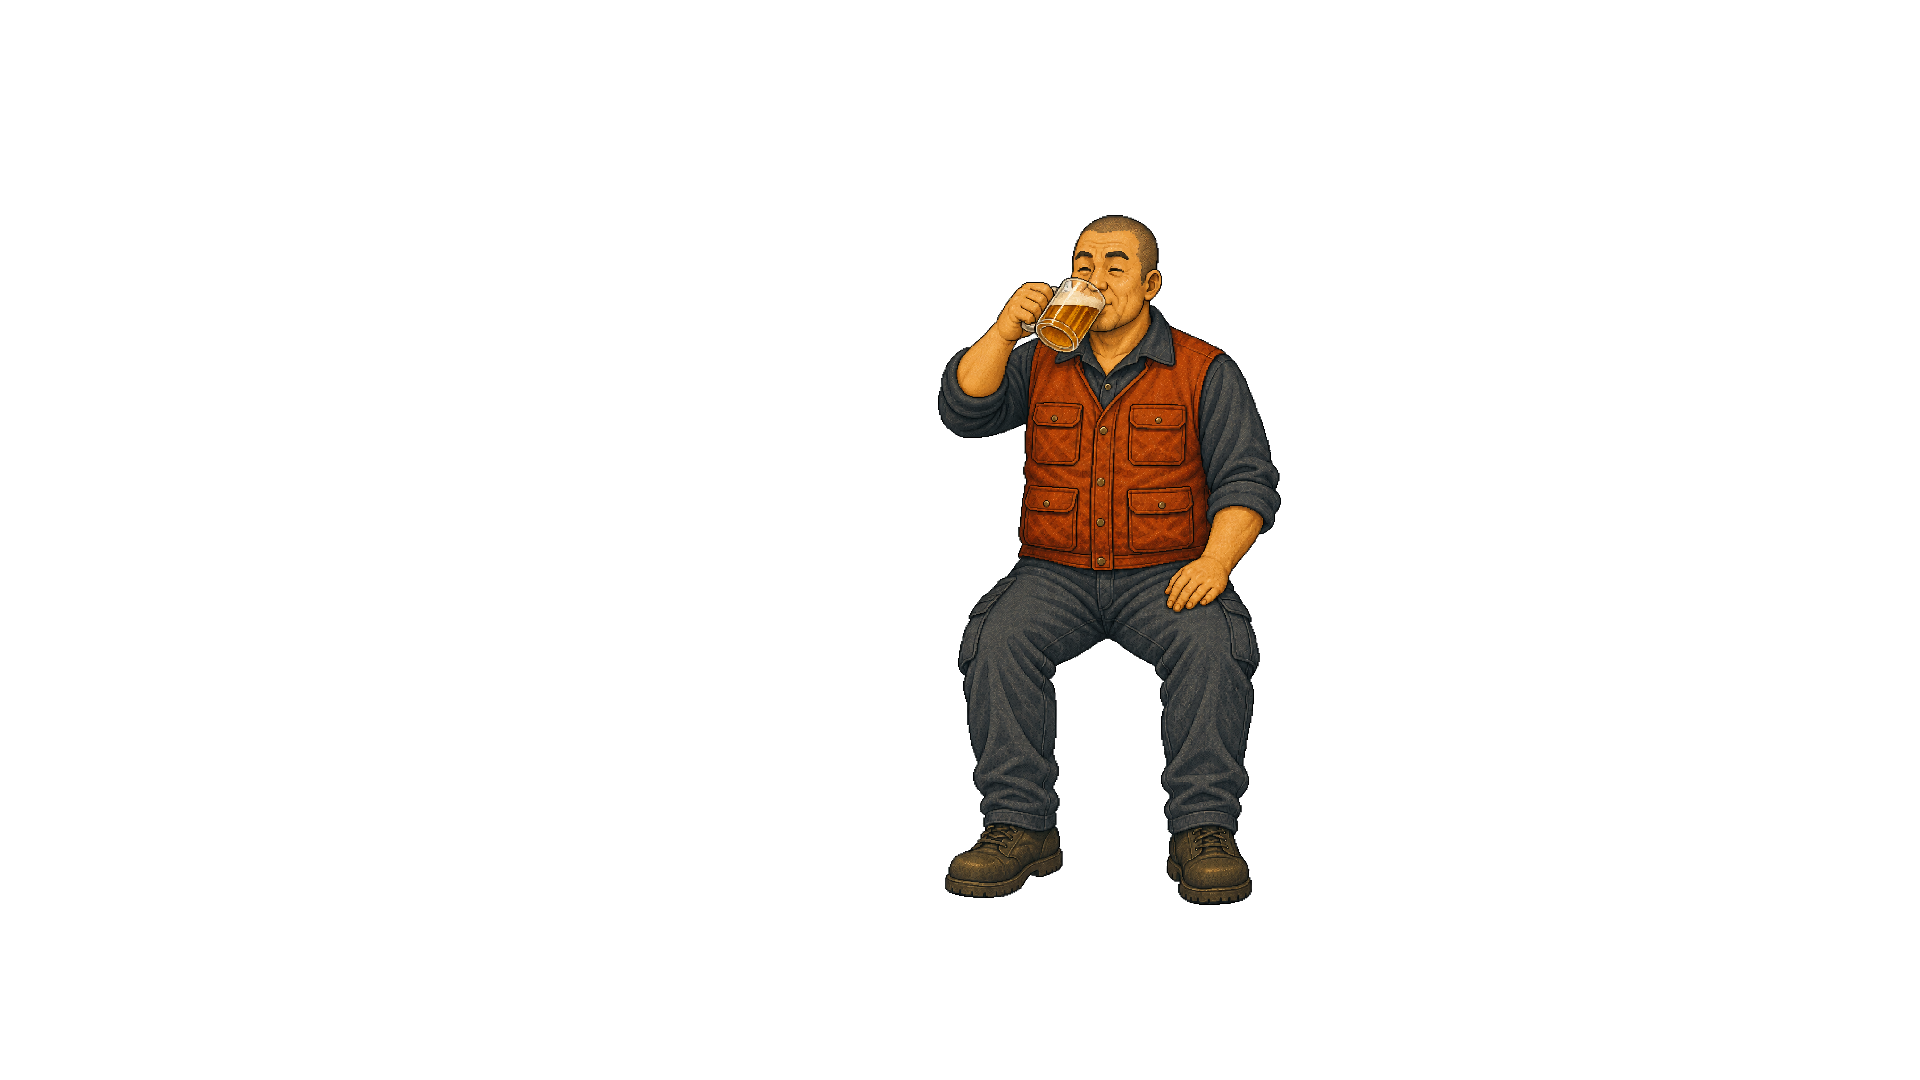
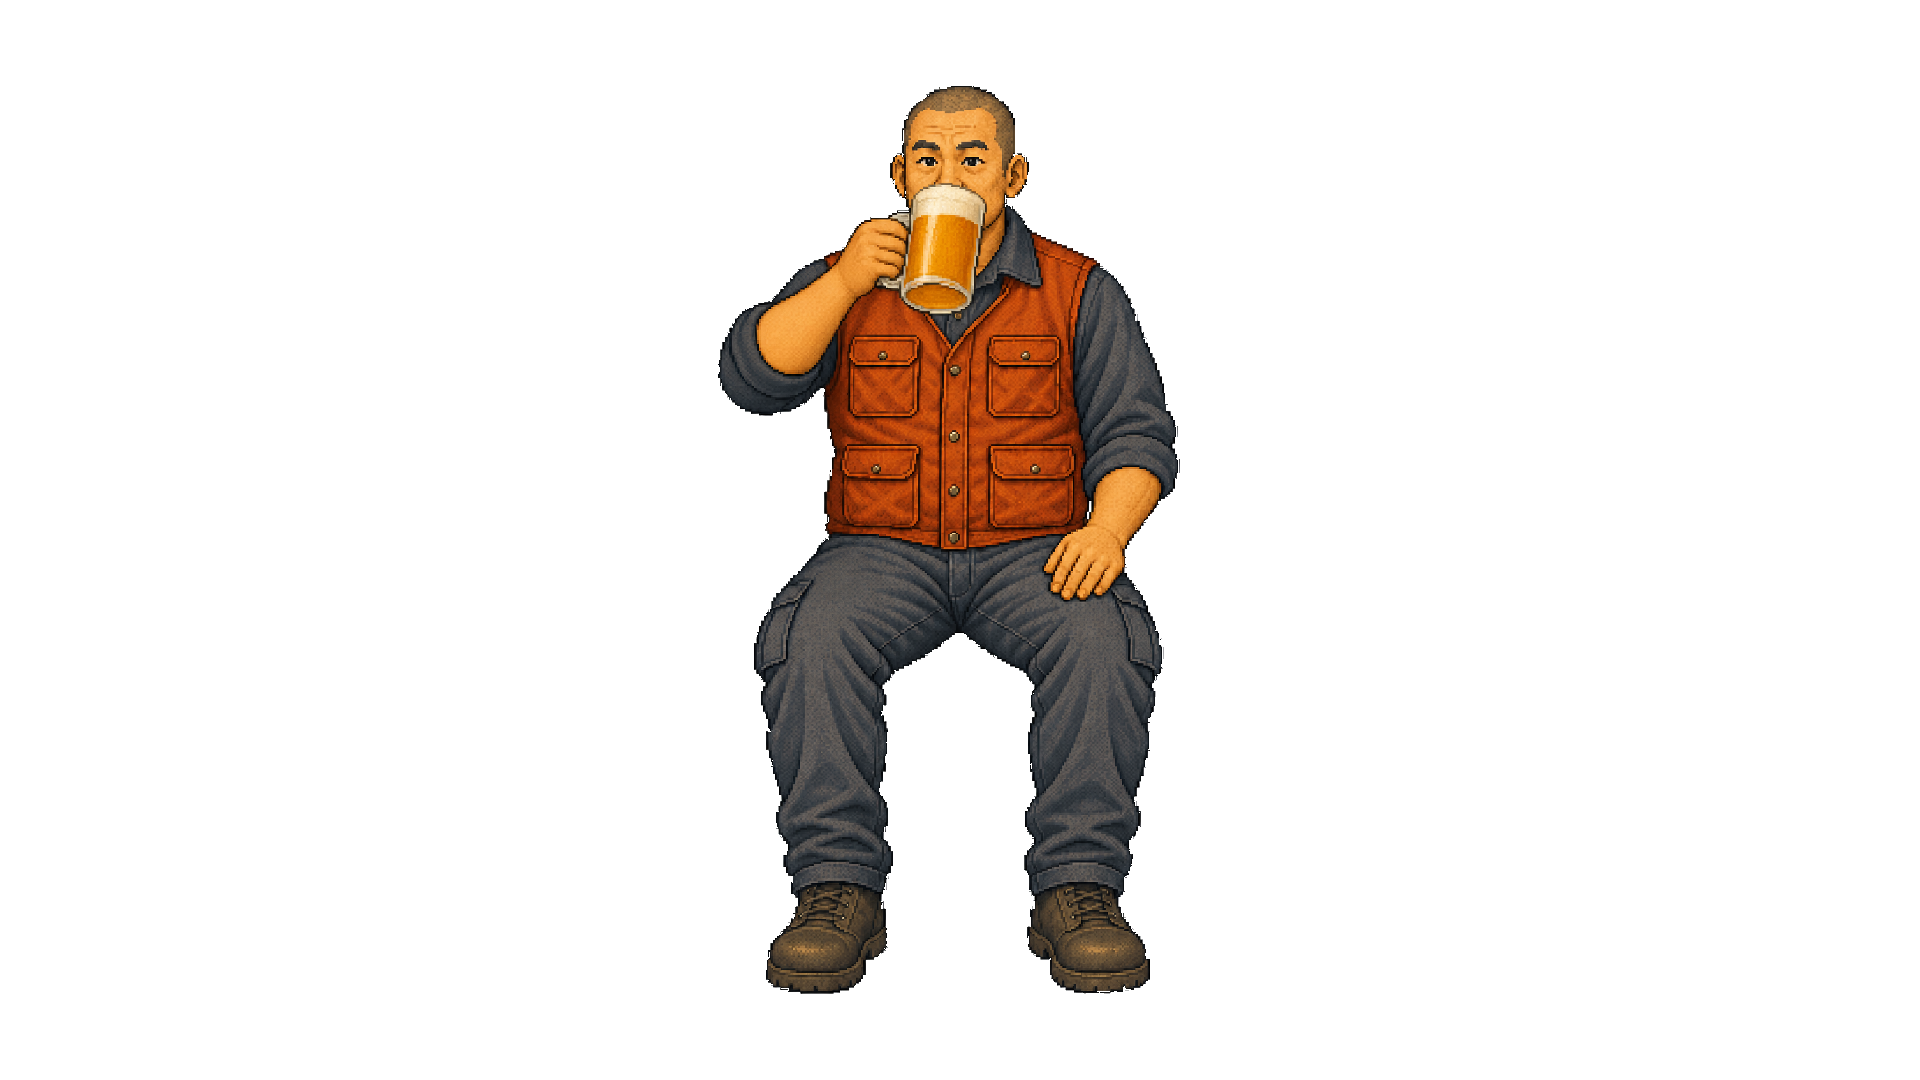
Normalize seated customer in-game assets

Changed region(s): [[0.375, 0.0611, 0.6875, 0.9167]]

diff --git a/docs/IN_GAME_CUSTOMER_ASSET_SPEC.md b/docs/IN_GAME_CUSTOMER_ASSET_SPEC.md
@@ -1,0 +1,45 @@
+# 인게임 손님 캐릭터 애셋 규격
+
+이 문서는 손님 캐릭터를 생성하거나 `public/assets/core/customer/in-game-mapping/`에 반영할 때 반드시 지키는 최종 규격이다.
+
+## 고정 캔버스
+
+- 최종 파일: `1920×1080` 픽셀, `16:9`
+- 파일 형식: sRGB PNG, straight alpha (`RGBA/BGRA`)
+- 생성 검토본 `1672×941`은 검토용일 뿐 인게임 파일로 직접 사용하지 않는다.
+- 최종 출력은 비율을 유지한 nearest-neighbor 변환과 투명 패딩으로 `1920×1080`에 맞춘다. 비균등 확대·축소 금지.
+
+## 캐릭터 구도와 크기
+
+- 손님은 카메라를 정면으로 바라본다. 좌우로 돌아간 3/4·측면 구도는 인게임 승인본으로 사용하지 않는다.
+- 모든 손님은 좌석에 앉은 상태다. 서 있는 포즈, 걷는 포즈, 허리를 세운 선 자세는 금지한다.
+- 캐릭터의 하단 중앙 착석 기준점과 눈높이를 세 상태에서 공유한다.
+- 기준 영역은 1920×1080 화면에서 약 `324×432` 픽셀이다. 상태가 바뀌어도 캐릭터의 머리 높이·폭·착석 높이를 바꾸지 않는다.
+- 머리, 손, 꼬치, 맥주잔은 캔버스 밖으로 잘리지 않는다.
+
+## 필수 상태 3종
+
+각 손님마다 다음 세 파일을 모두 만든다.
+
+1. `waiting`: 양손을 허벅지에 둔 자연스러운 대기 상태
+2. `eating-negima`: 정면 착석 상태에서 네기마 꼬치를 입에 가져간 상태
+3. `drinking-beer`: 정면 착석 상태에서 생맥주잔을 입에 가져간 상태
+
+상태 변경은 팔·손·입·소품만 수정한다. 얼굴, 헤어, 의상, 체형, 카메라, 착석 기준점은 세 파일에서 유지한다.
+
+## 투명 배경과 금지 요소
+
+- 배경은 완전 투명이어야 한다. 검은색/흰색 배경, checkerboard 패턴, 조명 후광, 바닥 그림자를 픽셀로 굽지 않는다.
+- 캐릭터 애셋에는 테이블, 책상, 의자, 좌석 등받이, 바닥, 벽, 가게 배경을 포함하지 않는다. 게임 배경과 좌석은 런타임에서 합성한다.
+- 대기 상태에는 음식과 잔을 넣지 않는다. 먹기 상태에는 네기마만, 음주 상태에는 생맥주잔만 허용한다.
+
+## 반영 전 자동·수동 검수
+
+- 이미지 크기 `1920×1080`인지 확인
+- PNG에 alpha 채널이 있고 모서리 픽셀이 `alpha=0`인지 확인
+- 정면 착석인지 확인
+- 세 상태의 눈높이·하단 중앙 기준점·캐릭터 크기가 동일한지 확인
+- 테이블·의자·배경·후광·그림자가 없는지 확인
+- 파일명과 manifest의 `url`, `sha256`, `bytes`를 갱신
+
+하나라도 실패하면 `in-game-mapping`에 승격하지 않고 `art-workspace/review` 후보로만 보관한다.

diff --git a/docs/IN_GAME_MAPPING.md b/docs/IN_GAME_MAPPING.md
@@ -12,3 +12,5 @@
 | OFFICE-E → 중년 여성 | `C:\Users\KwonYeongmin\Work\Project\YakiSeason\lora-art-generator\datasets\references\characters\tsukioka-style-training-v1\tsukioka-style-middle-aged-woman-*-reference-v1.png` | `C:\Users\KwonYeongmin\Work\Project\YakiSeason\app\public\assets\core\customer\in-game-mapping\middle-aged-woman-{waiting,eating-negima,drinking-beer}-r6-b1.png` |
 
 각 캐릭터는 `waiting`, `eating-negima`, `drinking-beer` 상태를 사용한다. 서버 캐릭터는 손님 매핑에서 제외한다.
+
+인게임 손님 애셋의 고정 규격(1920×1080, 정면 착석, 투명 배경, 3상태, 가구 금지)은 [`IN_GAME_CUSTOMER_ASSET_SPEC.md`](./IN_GAME_CUSTOMER_ASSET_SPEC.md)에 정의한다.

diff --git a/docs/DEVELOPER_B_STYLE_MATCH_V3.md b/docs/DEVELOPER_B_STYLE_MATCH_V3.md
@@ -1,0 +1,13 @@
+# Developer B style-match v3
+
+Developer B 인게임 3상태는 아래 검수 후보를 반영했다.
+
+원본 후보 폴더:
+
+`C:\Users\KwonYeongmin\Work\Project\YakiSeason\art-workspace\review\customer-pose-candidates\2026-08-26-exact-character-references-v1\developer-exact-v3-style-match\`
+
+반영된 런타임 파일:
+
+- `public/assets/core/customer/in-game-mapping/developer-b-waiting-r6-b1.png`
+- `public/assets/core/customer/in-game-mapping/developer-b-eating-negima-r6-b1.png`
+- `public/assets/core/customer/in-game-mapping/developer-b-drinking-beer-r6-b1.png`
